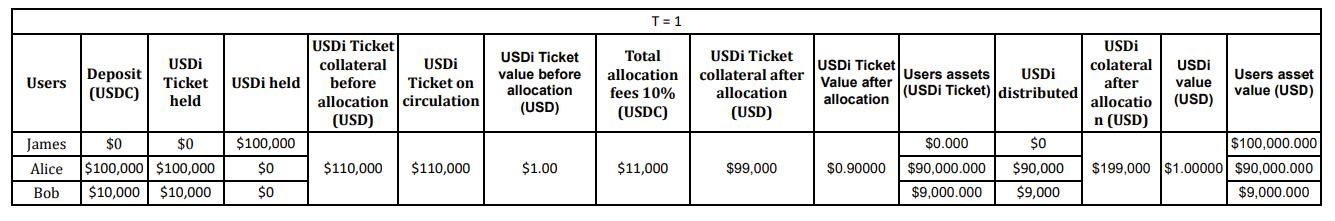
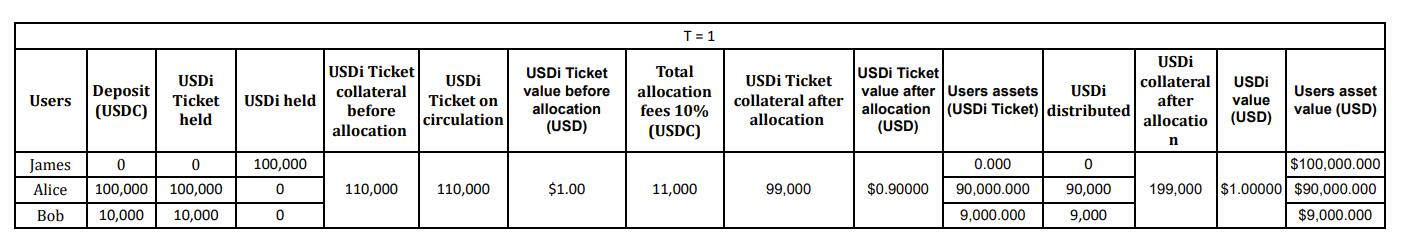
GitBook: [#41] Replacing images (remove un-needed dollar sign)

Changed region(s): [[0.0, 0.0814, 1.0, 0.9502], [0.0, 0.0271, 1.0, 0.0543], [0.4607, 0.733, 0.5835, 0.8145]]

diff --git a/protocol-mechanisms/protocol-algorithm-design/protocol-algorithm-design.md b/protocol-mechanisms/protocol-algorithm-design/protocol-algorithm-design.md
@@ -13,27 +13,25 @@ To simplify the situation for easier understanding:
 
 At `T=0`, We have James, who is holding at the moment $ 100,000 USDi, having USDi to be fully pegged to USD (1 USDi = 1 USD), so his total assets in USD is $100,000 USD.
 
-<figure><img src="../../.gitbook/assets/Table1_Alpha.png" alt=""><figcaption><p>Table 1: T=0 (Alpha version)</p></figcaption></figure>
+<figure><img src="../../.gitbook/assets/Table1_Alpha (1).png" alt=""><figcaption><p>Table 1: T=0 (Alpha version)</p></figcaption></figure>
 
-<figure><img src="../../.gitbook/assets/Diagram1_Alpha.png" alt=""><figcaption><p>Diagram 1: Starting point at T=0 (Alpha version).</p></figcaption></figure>
+<figure><img src="../../.gitbook/assets/Diagram1_Alpha (1).png" alt=""><figcaption><p>Diagram 1: Starting point at T=0 (Alpha version).</p></figcaption></figure>
 
 Yesterday, Alice deposited 100,000 USDC as well, while Bob deposited 10,000 USDC. Thus, the vault will mint 110,000 USDi and they will be receiving 100,000 USDi and 10,000 USDi respectively.
 
-<figure><img src="../../.gitbook/assets/Table2_Alpha.png" alt=""><figcaption><p>Table 2: T=1 (Alpha version)</p></figcaption></figure>
+<figure><img src="../../.gitbook/assets/Table2_Alpha (1).png" alt=""><figcaption><p>Table 2: T=1 (Alpha version)</p></figcaption></figure>
 
 Alice and Bob deposit new funds into the BoC protocol (Alpha version).
 
-The protocol mints the corresponding amount of USDi to users as shown in Diagram 2:
-
-<figure><img src="../../.gitbook/assets/Diagram2_Alpha.png" alt=""><figcaption><p>Diagram 2: USDi minted to users.</p></figcaption></figure>
+<figure><img src="../../.gitbook/assets/Diagram2_Alpha (1).png" alt=""><figcaption><p>Diagram 2: USDi minted to users.</p></figcaption></figure>
 
 The keeper will call the funds allocation when the [conditions](protocol-algorithm-design.md#allocation) are met and the vault will allocate the funds on the strategies selected by the keeper. For this fees will be needed to pay the third-party protocols to complete the allocation. This fee will be taken from the USDi collateral, causing de-pegging.
 
-<figure><img src="../../.gitbook/assets/Diagram3_Alpha.png" alt=""><figcaption><p>Diagram 3: Allocation of funds at T=1 (Alpha version).</p></figcaption></figure>
+<figure><img src="../../.gitbook/assets/Diagram3_Alpha (1).png" alt=""><figcaption><p>Diagram 3: Allocation of funds at T=1 (Alpha version).</p></figcaption></figure>
 
 As we can see in the table, the fund allocation decreases the USDi collateral causing a de-pegging of it vs the USD for which James' assets have also been affected by Alices' and Bob's deposit, which is unreasonable.
 
-<figure><img src="../../.gitbook/assets/Diagram4_Alpha.png" alt=""><figcaption><p>Diagram 4: User's assets after fund allocation (Alpha version).</p></figcaption></figure>
+<figure><img src="../../.gitbook/assets/Diagram4_Alpha (1).png" alt=""><figcaption><p>Diagram 4: User's assets after fund allocation (Alpha version).</p></figcaption></figure>
 
 ### Beta version logic (with USDi Ticket).
 
@@ -52,26 +50,30 @@ We simplify again the situation for easier understanding:
 
 Again at `T=0`, we have James, who is holding at the moment $ 100,000 USDi having USDi to be fully pegged to USD (1 USDi = 1 USD), so his total assets in USD is $100,000 USD.
 
-<figure><img src="../../.gitbook/assets/Table3_Beta.png" alt=""><figcaption><p>Table 3: T=0 (Beta version)</p></figcaption></figure>
+<figure><img src="../../.gitbook/assets/Table3_Beta (1).png" alt=""><figcaption><p>Table 3: T=0 (Beta version)</p></figcaption></figure>
 
-<figure><img src="../../.gitbook/assets/Diagram5_Beta.png" alt=""><figcaption><p>Diagram 5: Starting point T=0 (Beta version)</p></figcaption></figure>
+<figure><img src="../../.gitbook/assets/Diagram5_Beta (1).png" alt=""><figcaption><p>Diagram 5: Starting point T=0 (Beta version)</p></figcaption></figure>
 
 In this situation, Alice deposited 100,000 USDC as well, while Bob deposited 10,000 USDC. Thus, on the Beta version, the vault will mint 110,000 **USDi Tickets** and they will be receiving 100,000 USDi Tickets and 10,000 USDi Tickets respectively.
 
 <figure><img src="../../.gitbook/assets/Table4_Beta.png" alt=""><figcaption><p>Table 4: T=1 (Beta version)</p></figcaption></figure>
 
-<figure><img src="../../.gitbook/assets/Diagram6_Beta.png" alt=""><figcaption><p>Diagram 6: Alice and Bob deposit new funds on the BoC protocol (Beta version).</p></figcaption></figure>
+<figure><img src="../../.gitbook/assets/Diagram6_Beta (1).png" alt=""><figcaption><p>Diagram 6: Alice and Bob deposit new funds on the BoC protocol (Beta version).</p></figcaption></figure>
 
 The keeper will call the funds allocation when the [conditions](protocol-algorithm-design.md#allocation) are met and the vault will allocate the funds on the strategies selected by the keeper. For this fees will be needed to pay the third-party protocols to complete the allocation, this fees will be taken from the USDi Ticket collateral, causing de-pegging.
 
-<figure><img src="../../.gitbook/assets/Digram7_Beta.png" alt=""><figcaption><p>Diagram 7: Allocation of the funds T=1 (Beta version).</p></figcaption></figure>
+The keeper will call the funds allocation when the&#x20;
+
+<figure><img src="../../.gitbook/assets/Digram7_Beta (1).png" alt=""><figcaption><p>Diagram 7: Allocation of the funds T=1 (Beta version).</p></figcaption></figure>
 
 After the funds allocation, the vault will exchange the USDi Tickets (burn) for USDi (mint).
 
-<figure><img src="../../.gitbook/assets/Diagram8_Beta.png" alt=""><figcaption><p>Diagram 8: USDi Ticket exchange (Beta version).</p></figcaption></figure>
+<figure><img src="../../.gitbook/assets/Diagram8_Beta.png" alt=""><figcaption><p>Diagram 8: USDi ticket exchange (Beta version).</p></figcaption></figure>
+
+<figure><img src="../../.gitbook/assets/Diagram8_Beta (1).png" alt=""><figcaption><p>Diagram 8: USDi ticket exchange (Beta version).</p></figcaption></figure>
 
 As we can see in the table, the fund allocation decreases the USDi Ticket collateral causing a de-pegging of it vs the USD, however the USDi collateral remains unaffected and fully pegged to USD, so James' assets have not been affected by Alices' and Bob's deposit.
 
-<figure><img src="../../.gitbook/assets/Diagram9_Beta.png" alt=""><figcaption><p>Diagram 9: User's assets after allocation (Beta version).</p></figcaption></figure>
+<figure><img src="../../.gitbook/assets/Diagram9_Beta (1).png" alt=""><figcaption><p>Diagram 9: User's assets after allocation (Beta version).</p></figcaption></figure>
 
 In conclusion, the main function of **USDi Tickets** is to **solve the over-dispatching of USDi** (without deducting the first allocation fee). It also **allows transparency of the first allocation fee** to be borne by every user individually.&#x20;
